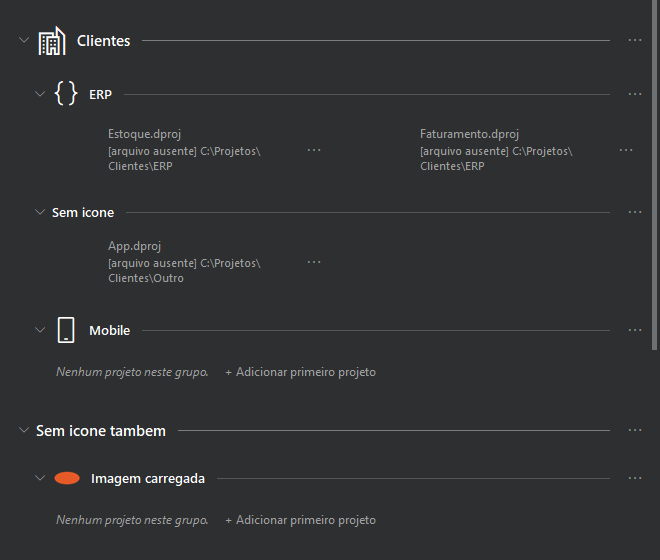
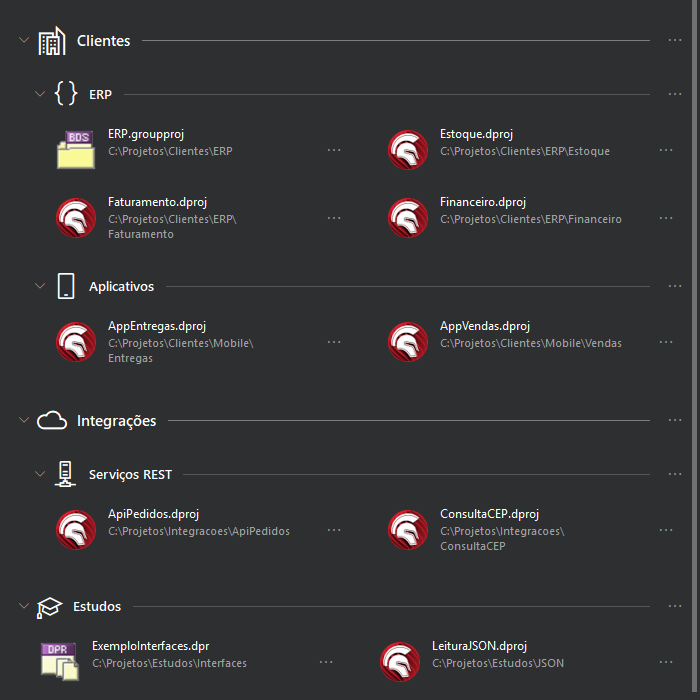
Docs: new list screenshots with realistic sample projects; drop the About window

diff --git a/README.md b/README.md
@@ -50,8 +50,6 @@ panels, so it looks like it came with Delphi.
 |---|---|
 | ![Light theme](docs/images/list-light.png) | ![Icon picker](docs/images/icon-picker-dark.png) |
 
-![About window](docs/images/about-en-light.png)
-
 ## Install
 
 1. Download `CSCoderHubProjetos-<version>.zip` from `CSCoderHub/dist/` (or from Releases)

diff --git a/README.pt-BR.md b/README.pt-BR.md
@@ -50,8 +50,6 @@ veio com o Delphi.
 |---|---|
 | ![Tema claro](docs/images/list-light.png) | ![Escolher ícone](docs/images/icon-picker-dark.png) |
 
-![Janela Sobre](docs/images/about-pt-dark.png)
-
 ## Instalação
 
 1. Baixe `CSCoderHubProjetos-<versão>.zip` de `CSCoderHub/dist/` (ou de Releases) e
